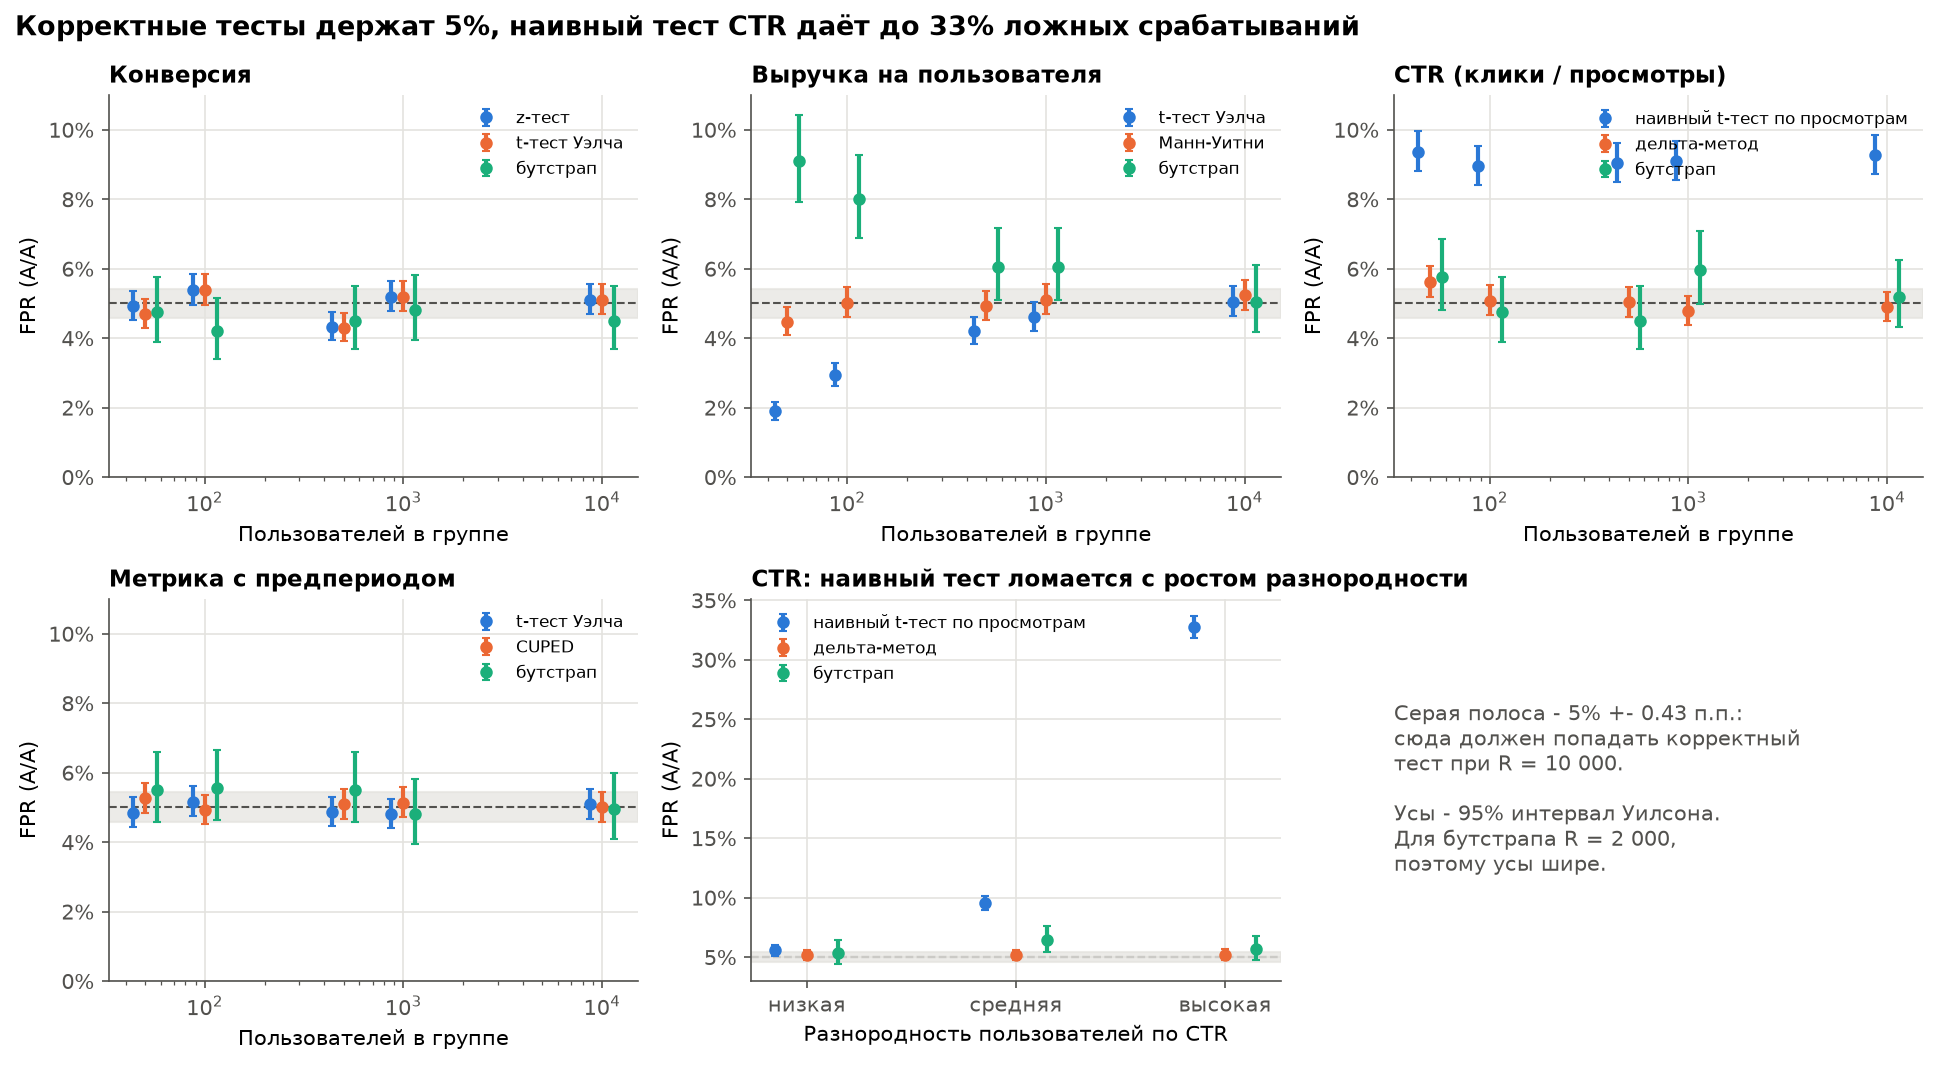
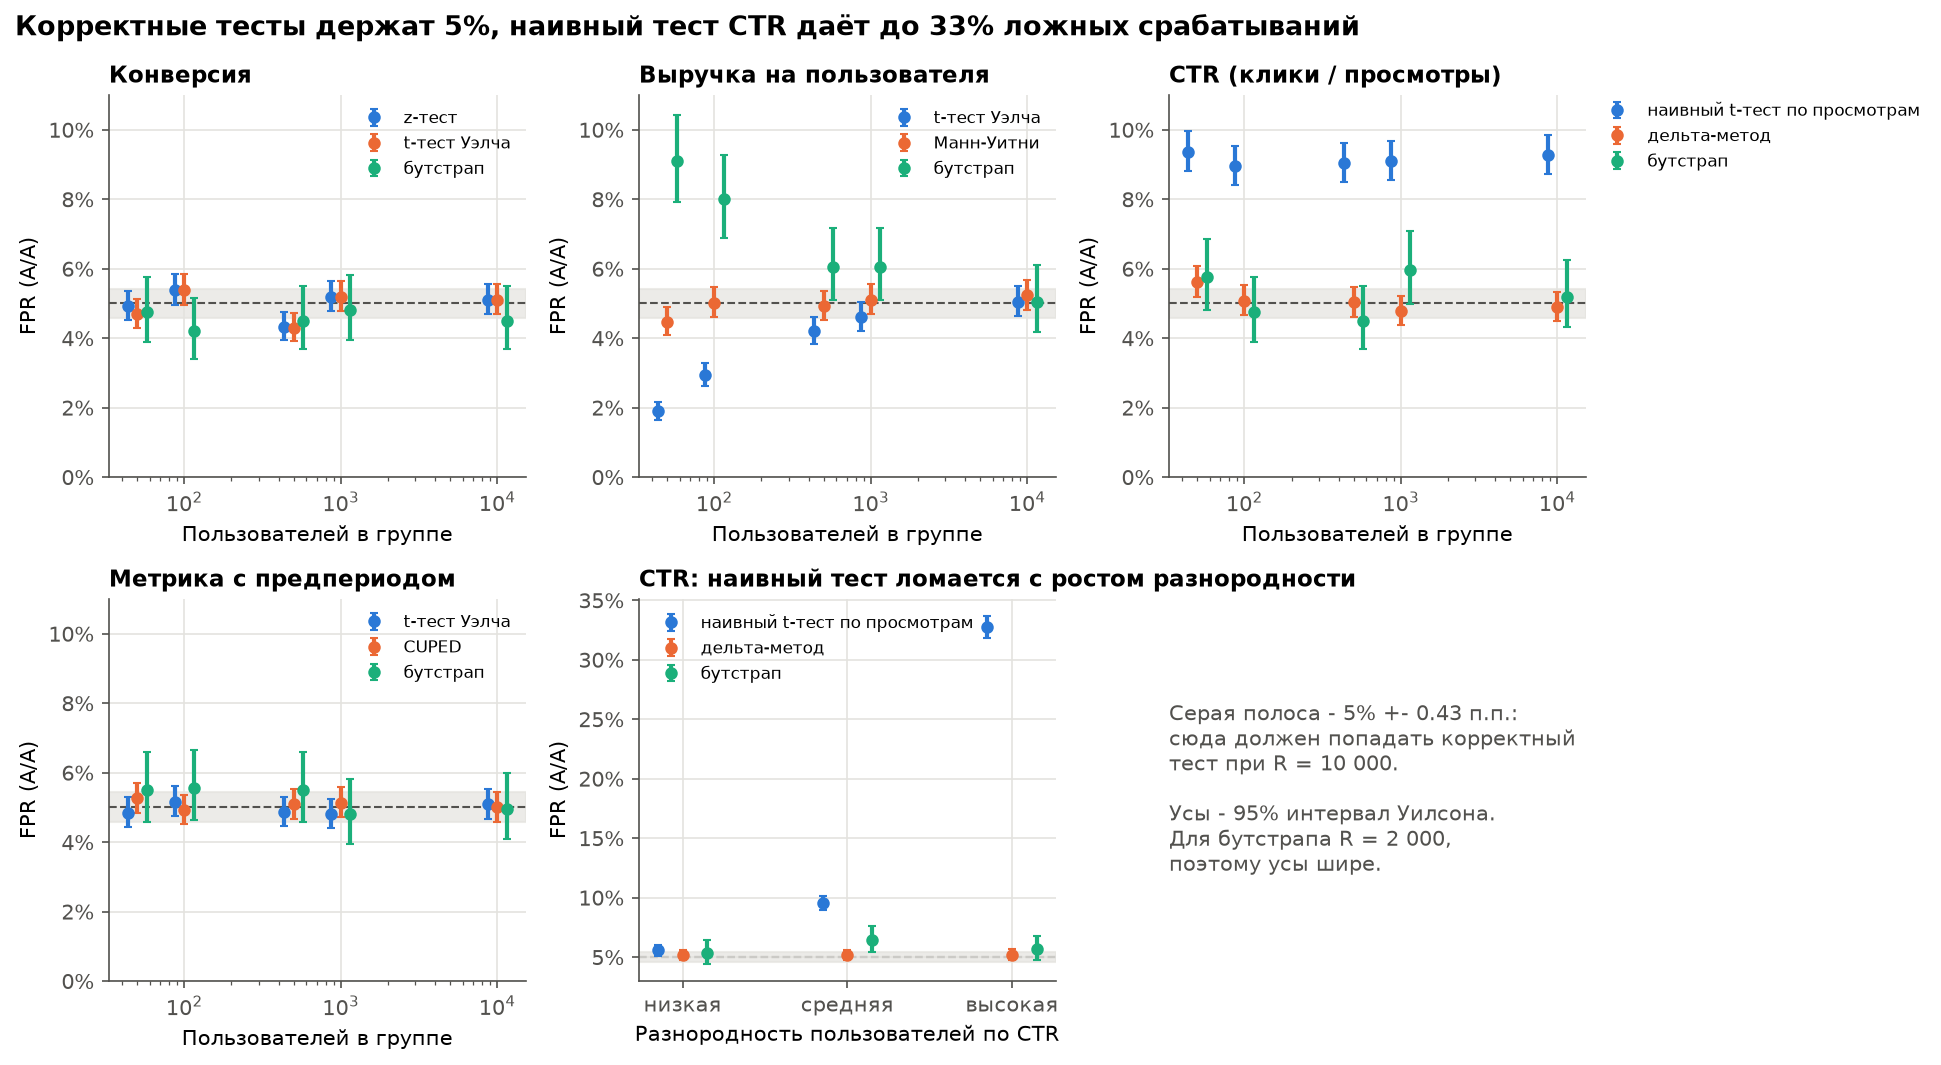
fix: improve plots

diff --git a/src/abtest_sim/plots.py b/src/abtest_sim/plots.py
@@ -176,7 +176,7 @@ def power_curves(con):
     df = _rates(con).query("scenario == 'power'").sort_values("n_per_group")
     n_grid = np.geomspace(df["n_per_group"].min(), df["n_per_group"].max(), 200)
 
-    fig, ax = plt.subplots(figsize=(9, 4.8))
+    fig, ax = plt.subplots(figsize=(11, 4.8))
     for color, (u, d) in zip(COLORS, df.groupby("uplift"), strict=False):
         ax.plot(n_grid, power_two_proportions(p, u, n_grid), ls="--", lw=1.2, color=color)
         label = f"uplift +{u:.0%}"
@@ -189,7 +189,13 @@ def power_curves(con):
     ax.set_xlabel("Пользователей в группе (лог. шкала)")
     ax.set_ylabel("Мощность z-теста")
     _pct(ax)
-    ax.legend(title="точки - симуляция,\nпунктир - формула", loc="lower right", fontsize=9)
+    ax.legend(
+        title="точки - симуляция,\nпунктир - формула",
+        loc="center left",
+        bbox_to_anchor=(1.02, 0.5),
+        borderaxespad=0,
+        fontsize=9,
+    )
     ax.set_title("Симуляция совпадает с формулой; вдвое меньший эффект требует ~4x выборку")
     return _save(fig, "power_curves")
 
@@ -224,7 +230,15 @@ def fpr_by_test(con):
         ax.set_title(METRIC_NAMES[metric], fontsize=11)
         ax.set_xlabel("Пользователей в группе")
         ax.set_ylim(0, 0.11)
-        ax.legend(fontsize=8, loc="upper right")
+        if metric == "ctr":
+            ax.legend(
+                fontsize=8,
+                loc="upper left",
+                bbox_to_anchor=(1.02, 1),
+                borderaxespad=0,
+            )
+        else:
+            ax.legend(fontsize=8, loc="upper right")
 
     ax = axes.flat[4]
     _alpha_line(ax)
